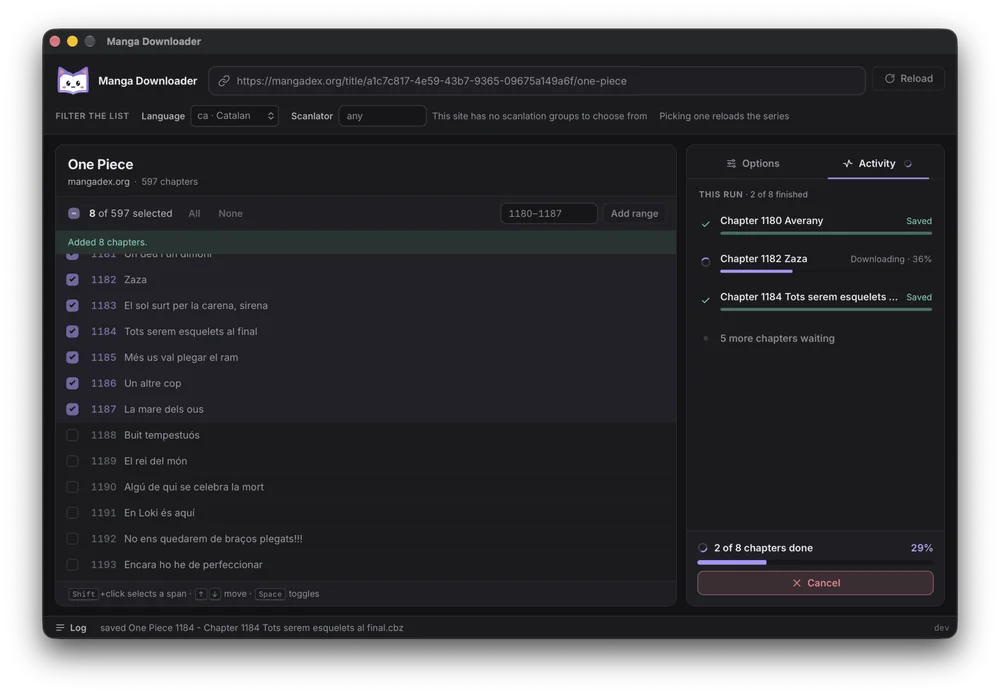
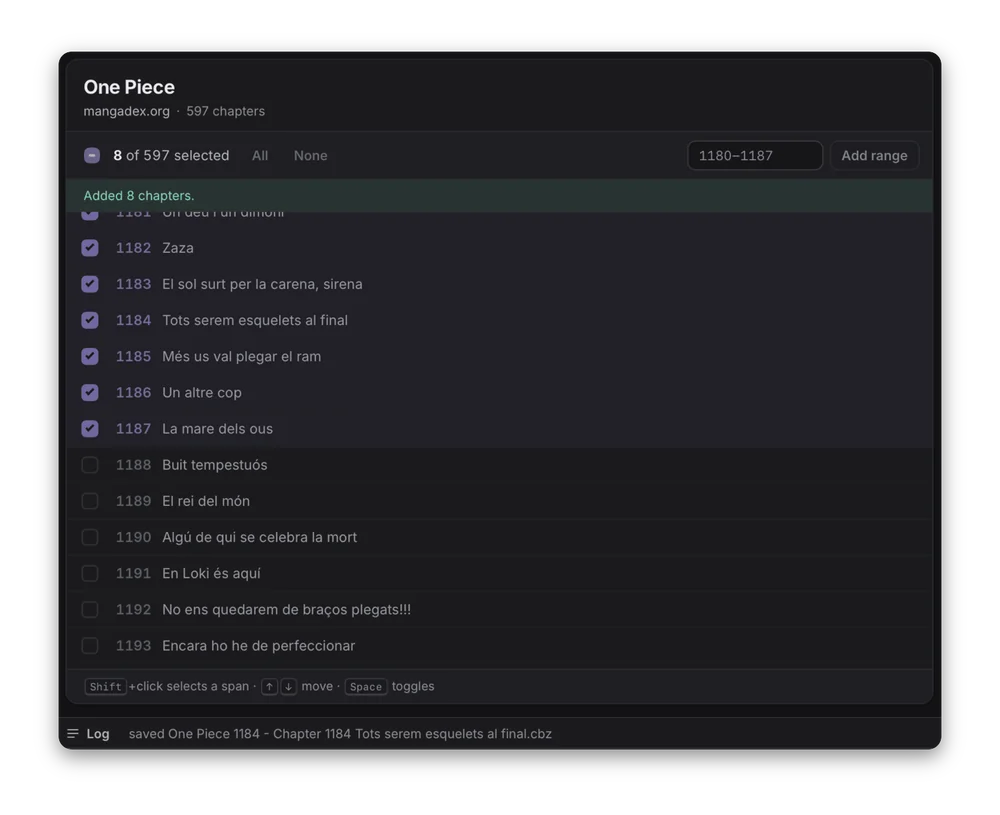
fix(website): show the hero mascot in Firefox dark, crop the showcase shots
- Stop inlining assets as data: URIs (assetsInlineLimit: 0). Firefox skipped
  the SVG data: URI in the dark <picture> source, leaving the disc empty.
- Size the hero mascot on its <picture> instead of the <img>, so Firefox no
  longer collapses it to 0px, and centre the ink on its visual mass.
- Replace the flat corner discs with soft radial glows, adjusted per theme.
- Remove fetchpriority from the hero screenshot and make all screenshots lazy.
- Ship WebP only. The showcase shots are cropped from the 2000px originals,
  with rounded corners and a shadow, at 600 and 1000px. The crop script is
  website/build/crop-screenshots.sh.

diff --git a/website/index.html b/website/index.html
@@ -160,12 +160,10 @@
             <picture>
               <source type="image/webp" media="(prefers-color-scheme: dark)" srcset="./src/assets/screenshots/app-overview-dark-1000.webp 1000w, ./src/assets/screenshots/app-overview-dark-1600.webp 1600w"
                       sizes="(min-width: 1160px) 1080px, 92vw" />
-              <source media="(prefers-color-scheme: dark)" srcset="./src/assets/screenshots/app-overview-dark-1000.png 1000w, ./src/assets/screenshots/app-overview-dark-1600.png 1600w"
-                      sizes="(min-width: 1160px) 1080px, 92vw" />
               <source type="image/webp" srcset="./src/assets/screenshots/app-overview-light-1000.webp 1000w, ./src/assets/screenshots/app-overview-light-1600.webp 1600w"
                       sizes="(min-width: 1160px) 1080px, 92vw" />
-              <img src="./src/assets/screenshots/app-overview-light-1600.png" srcset="./src/assets/screenshots/app-overview-light-1000.png 1000w, ./src/assets/screenshots/app-overview-light-1600.png 1600w"
-                   sizes="(min-width: 1160px) 1080px, 92vw" width="1600" height="1112" alt="The desktop app with One Piece loaded from MangaDex: its cover, title and chapter list, with two chapters selected and Catalan picked as the language." fetchpriority="high" />
+              <img src="./src/assets/screenshots/app-overview-light-1600.webp" srcset="./src/assets/screenshots/app-overview-light-1000.webp 1000w, ./src/assets/screenshots/app-overview-light-1600.webp 1600w"
+                   sizes="(min-width: 1160px) 1080px, 92vw" width="1600" height="1112" alt="The desktop app with One Piece loaded from MangaDex: its cover, title and chapter list, with two chapters selected and Catalan picked as the language." loading="lazy" />
             </picture>
           </figure>
 
@@ -185,14 +183,12 @@
               </div>
               <figure class="shot">
                 <picture>
-                  <source type="image/webp" media="(prefers-color-scheme: dark)" srcset="./src/assets/screenshots/chapter-list-dark-1000.webp 1000w, ./src/assets/screenshots/chapter-list-dark-1600.webp 1600w"
+                  <source type="image/webp" media="(prefers-color-scheme: dark)" srcset="./src/assets/screenshots/chapter-list-dark-600.webp 600w, ./src/assets/screenshots/chapter-list-dark-1000.webp 1000w"
                           sizes="(min-width: 821px) 45vw, 92vw" />
-                  <source media="(prefers-color-scheme: dark)" srcset="./src/assets/screenshots/chapter-list-dark-1000.png 1000w, ./src/assets/screenshots/chapter-list-dark-1600.png 1600w"
+                  <source type="image/webp" srcset="./src/assets/screenshots/chapter-list-light-600.webp 600w, ./src/assets/screenshots/chapter-list-light-1000.webp 1000w"
                           sizes="(min-width: 821px) 45vw, 92vw" />
-                  <source type="image/webp" srcset="./src/assets/screenshots/chapter-list-light-1000.webp 1000w, ./src/assets/screenshots/chapter-list-light-1600.webp 1600w"
-                          sizes="(min-width: 821px) 45vw, 92vw" />
-                  <img src="./src/assets/screenshots/chapter-list-light-1600.png" srcset="./src/assets/screenshots/chapter-list-light-1000.png 1000w, ./src/assets/screenshots/chapter-list-light-1600.png 1600w"
-                       sizes="(min-width: 821px) 45vw, 92vw" width="1600" height="1112" alt="The chapter list during a run: eight chapters selected, the first ones already saved and the rest in progress in the Activity panel." loading="lazy" />
+                  <img src="./src/assets/screenshots/chapter-list-light-1000.webp" srcset="./src/assets/screenshots/chapter-list-light-600.webp 600w, ./src/assets/screenshots/chapter-list-light-1000.webp 1000w"
+                       sizes="(min-width: 821px) 45vw, 92vw" width="1000" height="815" alt="The chapter list during a run: eight chapters selected, the first ones already saved and the rest in progress in the Activity panel." loading="lazy" />
                 </picture>
               </figure>
             </article>
@@ -207,14 +203,12 @@
               </div>
               <figure class="shot">
                 <picture>
-                  <source type="image/webp" media="(prefers-color-scheme: dark)" srcset="./src/assets/screenshots/language-selector-dark-1000.webp 1000w, ./src/assets/screenshots/language-selector-dark-1600.webp 1600w"
+                  <source type="image/webp" media="(prefers-color-scheme: dark)" srcset="./src/assets/screenshots/language-selector-dark-600.webp 600w, ./src/assets/screenshots/language-selector-dark-1000.webp 1000w"
                           sizes="(min-width: 821px) 45vw, 92vw" />
-                  <source media="(prefers-color-scheme: dark)" srcset="./src/assets/screenshots/language-selector-dark-1000.png 1000w, ./src/assets/screenshots/language-selector-dark-1600.png 1600w"
+                  <source type="image/webp" srcset="./src/assets/screenshots/language-selector-light-600.webp 600w, ./src/assets/screenshots/language-selector-light-1000.webp 1000w"
                           sizes="(min-width: 821px) 45vw, 92vw" />
-                  <source type="image/webp" srcset="./src/assets/screenshots/language-selector-light-1000.webp 1000w, ./src/assets/screenshots/language-selector-light-1600.webp 1600w"
-                          sizes="(min-width: 821px) 45vw, 92vw" />
-                  <img src="./src/assets/screenshots/language-selector-light-1600.png" srcset="./src/assets/screenshots/language-selector-light-1000.png 1000w, ./src/assets/screenshots/language-selector-light-1600.png 1600w"
-                       sizes="(min-width: 821px) 45vw, 92vw" width="1600" height="1112" alt="The language dropdown open over the chapter list, with Catalan selected among the languages One Piece is available in." loading="lazy" />
+                  <img src="./src/assets/screenshots/language-selector-light-1000.webp" srcset="./src/assets/screenshots/language-selector-light-600.webp 600w, ./src/assets/screenshots/language-selector-light-1000.webp 1000w"
+                       sizes="(min-width: 821px) 45vw, 92vw" width="1000" height="1094" alt="The language dropdown open over the chapter list, with Catalan selected among the languages One Piece is available in." loading="lazy" />
                 </picture>
               </figure>
             </article>
@@ -231,14 +225,12 @@
               </div>
               <figure class="shot">
                 <picture>
-                  <source type="image/webp" media="(prefers-color-scheme: dark)" srcset="./src/assets/screenshots/finished-run-dark-1000.webp 1000w, ./src/assets/screenshots/finished-run-dark-1600.webp 1600w"
+                  <source type="image/webp" media="(prefers-color-scheme: dark)" srcset="./src/assets/screenshots/finished-run-dark-600.webp 600w, ./src/assets/screenshots/finished-run-dark-1000.webp 1000w"
                           sizes="(min-width: 821px) 45vw, 92vw" />
-                  <source media="(prefers-color-scheme: dark)" srcset="./src/assets/screenshots/finished-run-dark-1000.png 1000w, ./src/assets/screenshots/finished-run-dark-1600.png 1600w"
+                  <source type="image/webp" srcset="./src/assets/screenshots/finished-run-light-600.webp 600w, ./src/assets/screenshots/finished-run-light-1000.webp 1000w"
                           sizes="(min-width: 821px) 45vw, 92vw" />
-                  <source type="image/webp" srcset="./src/assets/screenshots/finished-run-light-1000.webp 1000w, ./src/assets/screenshots/finished-run-light-1600.webp 1600w"
-                          sizes="(min-width: 821px) 45vw, 92vw" />
-                  <img src="./src/assets/screenshots/finished-run-light-1600.png" srcset="./src/assets/screenshots/finished-run-light-1000.png 1000w, ./src/assets/screenshots/finished-run-light-1600.png 1600w"
-                       sizes="(min-width: 821px) 45vw, 92vw" width="1600" height="1112" alt="A finished run: eight chapters saved to the output folder, each listed as saved in the Activity panel." loading="lazy" />
+                  <img src="./src/assets/screenshots/finished-run-light-1000.webp" srcset="./src/assets/screenshots/finished-run-light-600.webp 600w, ./src/assets/screenshots/finished-run-light-1000.webp 1000w"
+                       sizes="(min-width: 821px) 45vw, 92vw" width="1000" height="1241" alt="A finished run: eight chapters saved to the output folder, each listed as saved in the Activity panel." loading="lazy" />
                 </picture>
               </figure>
             </article>

diff --git a/website/src/styles.css b/website/src/styles.css
@@ -31,8 +31,8 @@
   --success-text: var(--mint-deep);
   --ring: color-mix(in srgb, var(--violet) 55%, transparent);
   --disc: #ebe4fe;
-  --blob-mint: #d3f6eb;
-  --blob-pink: #ffe1eb;
+  --glow-mint: rgb(79 216 176 / 30%);
+  --glow-pink: rgb(255 143 179 / 26%);
   --code-bg: var(--night);
   --code-text: var(--moon);
   --shadow: 0 1px 2px rgb(30 26 51 / 4%), 0 8px 24px -12px rgb(30 26 51 / 14%);
@@ -67,8 +67,8 @@
     --accent-soft: rgb(169 147 255 / 15%);
     --success-text: #5ee0b8;
     --disc: rgb(169 147 255 / 13%);
-    --blob-mint: rgb(79 216 176 / 6%);
-    --blob-pink: rgb(255 143 179 / 6%);
+    --glow-mint: rgb(79 216 176 / 14%);
+    --glow-pink: rgb(255 143 179 / 12%);
     --code-bg: #0f0d1f;
     --shadow: 0 1px 2px rgb(0 0 0 / 30%), 0 8px 24px -12px rgb(0 0 0 / 50%);
     --shadow-lg: 0 2px 4px rgb(0 0 0 / 30%), 0 24px 48px -24px rgb(0 0 0 / 70%);
@@ -290,25 +290,27 @@ code {
   pointer-events: none;
 }
 
+/* Soft light, not objects: a radial fade with no edge, so there is no disc to
+   read as a moon or a missing image. */
 .blob {
   position: absolute;
-  border-radius: 50%;
+  background: radial-gradient(closest-side, var(--glow), transparent);
 }
 
 .blob-mint {
-  width: 360px;
-  height: 360px;
-  right: -170px;
-  top: -190px;
-  background: var(--blob-mint);
+  --glow: var(--glow-mint);
+  width: 640px;
+  height: 640px;
+  right: -240px;
+  top: -280px;
 }
 
 .blob-pink {
-  width: 300px;
-  height: 300px;
-  left: -190px;
+  --glow: var(--glow-pink);
+  width: 560px;
+  height: 560px;
+  left: -280px;
   top: 52%;
-  background: var(--blob-pink);
 }
 
 .hero-inner {
@@ -445,10 +447,19 @@ code {
   place-items: center;
 }
 
-.hero-disc img {
+/* The size goes on the <picture>, not the <img>: a percentage width on the img
+   resolves against a shrink-wrapped picture, which Firefox collapses to 0 for
+   an SVG without an intrinsic size. The mark's ink centre sits 1.6% below its
+   box centre, so it is lifted by that much to look centred in the disc. */
+.hero-disc picture {
   width: 76%;
+}
+
+.hero-disc img {
+  display: block;
+  width: 100%;
   height: auto;
-  transform: translateY(-3%);
+  transform: translateY(-1.6%);
 }
 
 .sparkle {

diff --git a/website/vite.config.ts b/website/vite.config.ts
@@ -57,8 +57,9 @@ export default defineConfig({
   base,
   plugins: [siteData()],
   build: {
-    // The mark SVGs are tiny; inlining them saves requests above the fold.
-    assetsInlineLimit: 4096,
+    // Never inline assets as data: URIs. Firefox doesn't render the SVG data:
+    // URI in the dark <picture> source, so the hero mascot disappeared there.
+    assetsInlineLimit: 0,
   },
   test: {
     include: ['src/**/*.test.ts', 'build/**/*.test.ts'],

diff --git a/website/README.md b/website/README.md
@@ -39,23 +39,49 @@ pnpm preview   # serve dist/
 ## Screenshots
 
 The desktop app section shows four captures from `src/assets/screenshots/`,
-each in a light and a dark version, at 1600 and 1000 px wide: `<name>-<theme>-<width>.webp`
-with a `.png` fallback. A `<picture>` swaps the dark ones in with
-`prefers-color-scheme`, and Vite fingerprints them into `dist`.
+each in a light and a dark version. A `<picture>` swaps the dark ones in with
+`prefers-color-scheme`, and Vite fingerprints them into `dist`. WebP only, which
+every browser the site cares about reads, so there are no PNG fallbacks.
+
+- `app-overview` is the full window, at 1000 and 1600 px wide: the hero.
+- `language-selector`, `chapter-list` and `finished-run` are crops of the
+  2000 px originals in `/tmp/md-fyne-ui/mac-shots/opt/`, at 600 and 1000 px wide.
+  They are cut to the part that matters, so they stay readable at the
+  ~500 px they are shown at. Each gets the window's rounded corners and a soft
+  shadow on a transparent margin of 56 px.
 
 The files are converted offline and committed, so the build needs no image tools.
-To regenerate them from the 2000 px originals (ImageMagick):
+The crop script is [`build/crop-screenshots.sh`](build/crop-screenshots.sh). The
+geometry is `WxH+X+Y` on the 2000x1390 original, with the window's top-left at
+(85,58), so `03-language-selector-*.png` crops to `900x1000+85+58`:
+
+| Crop                | Original                                | Geometry            |
+| ------------------- | --------------------------------------- | ------------------- |
+| `language-selector` | `03-language-selector-{light,dark}.png` | `900x1000+85+58`    |
+| `chapter-list`      | `04-downloading-{light,dark}.png`       | `1265x1000+100+278` |
+| `finished-run`      | `05-done-{light,dark}.png`              | `580x760+1335+248`  |
+
+To regenerate from the originals, run it with the originals' folder and an
+output folder:
+
+```bash
+build/crop-screenshots.sh /tmp/md-fyne-ui/mac-shots/opt src/assets/screenshots
+```
+
+The hero (`app-overview`) is not cropped. Its WebP derivatives come from the
+full window with ImageMagick:
 
 ```bash
 magick IN.png -filter Lanczos -resize 1600x -strip -define webp:method=6 -quality 85 OUT-1600.webp
-magick IN.png -filter Lanczos -resize 1600x -strip -colors 256 -define png:compression-level=9 OUT-1600.png
 ```
 
-Repeat with `1000x` for the smaller width. The PNGs are 256-colour palettes, which
-keeps the fallbacks small; browsers that read WebP never fetch them.
+Repeat with `1000x` for the smaller width.
 
-Keep the `<img>` `width` and `height` (the 1600 px size) so the layout doesn't shift,
-and the first, above-the-fold image eager with `fetchpriority="high"`; the rest are `loading="lazy"`.
+Each crop is resized with ImageMagick to 1000 and 600 px wide, converted with
+`-define webp:method=6 -quality 85`, and stripped of metadata. The `<img>`
+`width` and `height` are the largest derivative's size, so the layout doesn't shift. Every
+screenshot is `loading="lazy"`: none of them is above the fold at 1440×900, and
+the hero text is the LCP element.
 
 ## Another domain
 
